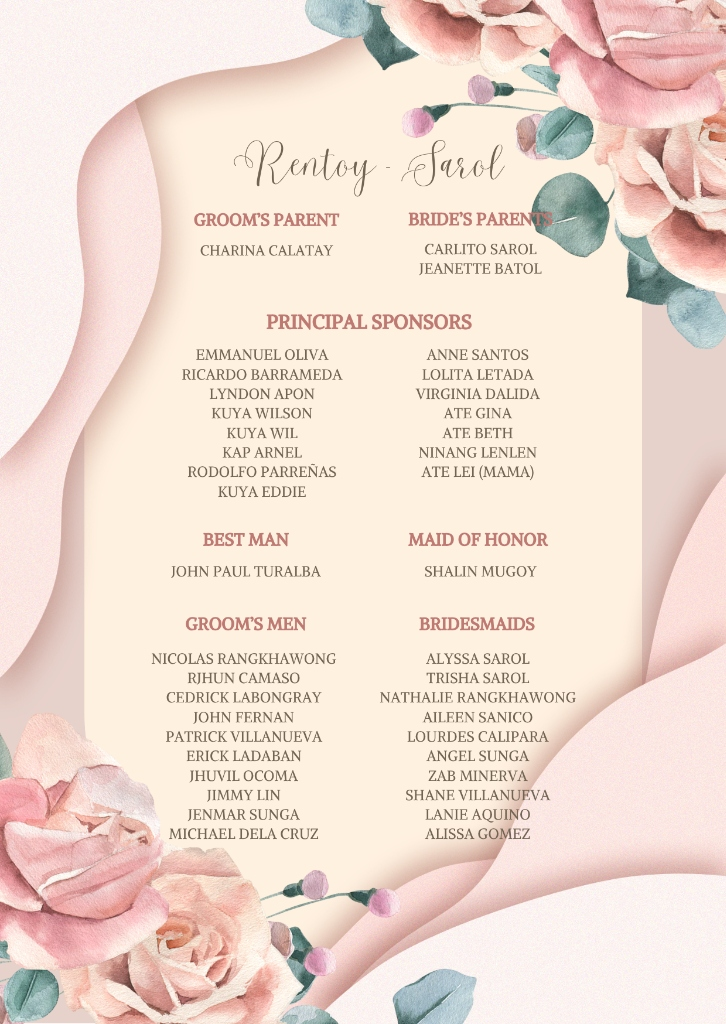
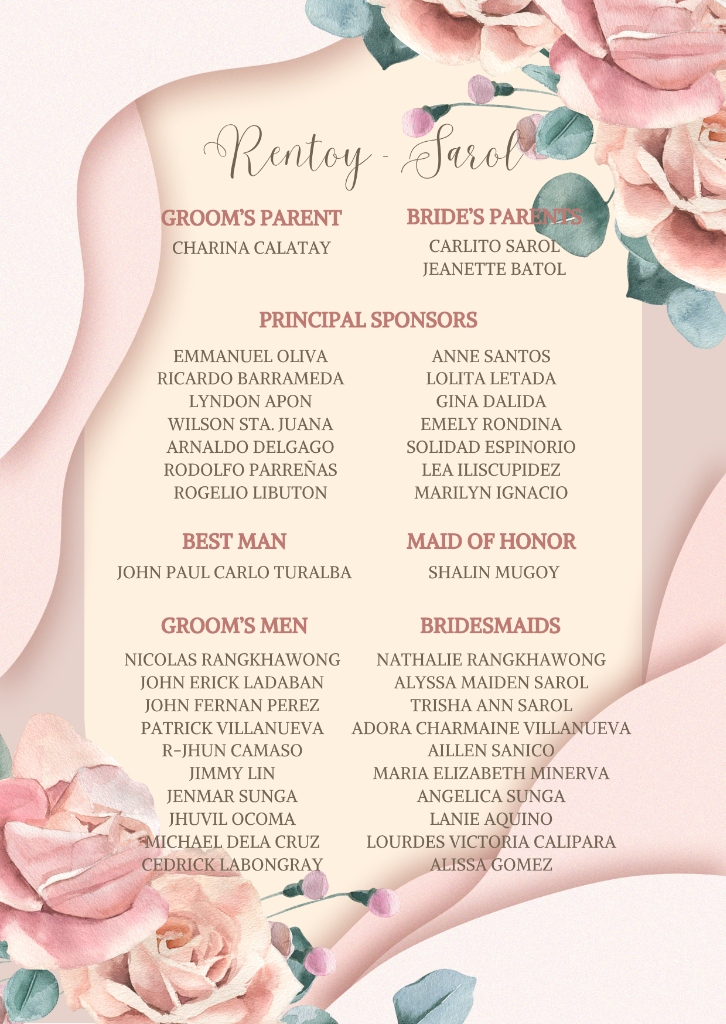
Update entourage roster, sponsors, and gift notes to match finalized invitations

diff --git a/index.html b/index.html
@@ -830,14 +830,13 @@
 								<div class="col-md-6 col-sm-6 text-center">
 									<p class="entourage-pair"><strong>Emmanuel Oliva</strong> &amp; <strong>Anne Santos</strong></p>
 									<p class="entourage-pair"><strong>Ricardo Barrameda</strong> &amp; <strong>Lolita Letada</strong></p>
-									<p class="entourage-pair"><strong>Lyndon Apon</strong> &amp; <strong>Virginia Dalida</strong></p>
-									<p class="entourage-pair"><strong>Kuya Wilson</strong> &amp; <strong>Ate Gina</strong></p>
+									<p class="entourage-pair"><strong>Lyndon Apon</strong> &amp; <strong>Gina Dalida</strong></p>
+									<p class="entourage-pair"><strong>Wilson Sta. Juana</strong> &amp; <strong>Emely Rondina</strong></p>
 								</div>
 								<div class="col-md-6 col-sm-6 text-center">
-									<p class="entourage-pair"><strong>Kuya Wil</strong> &amp; <strong>Ate Beth</strong></p>
-									<p class="entourage-pair"><strong>Kap Arnel</strong> &amp; <strong>Ninang Lenlen</strong></p>
-									<p class="entourage-pair"><strong>Rodolfo Parreñas</strong> &amp; <strong>Ate Lei (Mama)</strong></p>
-									<p class="entourage-pair"><strong>Kuya Eddie</strong></p>
+									<p class="entourage-pair"><strong>Arnaldo Delgago</strong> &amp; <strong>Solidad Espinorio</strong></p>
+									<p class="entourage-pair"><strong>Rodolfo Parreñas</strong> &amp; <strong>Lea Iliscupidez</strong></p>
+									<p class="entourage-pair"><strong>Rogelio Libuton</strong> &amp; <strong>Marilyn Ignacio</strong></p>
 								</div>
 							</div>
 						</div>
@@ -851,15 +850,15 @@
 							<div class="row" style="margin-top:15px;">
 								<div class="col-md-4 col-sm-4 text-center">
 									<p style="font-weight:700; color:#B96D7D; text-transform:uppercase; font-size:13px; letter-spacing:1px; margin-bottom:5px;">To Light Our Path</p>
-									<p class="entourage-pair"><strong>Lyndon Apon</strong><br><strong>Virginia Dalida</strong></p>
+									<p class="entourage-pair"><strong>John Paul Carlo Turalba</strong><br><strong>Shalin Mugoy</strong></p>
 								</div>
 								<div class="col-md-4 col-sm-4 text-center">
 									<p style="font-weight:700; color:#B96D7D; text-transform:uppercase; font-size:13px; letter-spacing:1px; margin-bottom:5px;">To Clothe Us As One</p>
-									<p class="entourage-pair"><strong>Emmanuel Oliva</strong><br><strong>Anne Santos</strong></p>
+									<p class="entourage-pair"><strong>Patrick Villanueva</strong><br><strong>Adora Charmaine Villanueva</strong></p>
 								</div>
 								<div class="col-md-4 col-sm-4 text-center">
 									<p style="font-weight:700; color:#B96D7D; text-transform:uppercase; font-size:13px; letter-spacing:1px; margin-bottom:5px;">To Bind Us Together</p>
-									<p class="entourage-pair"><strong>Ricardo Barrameda</strong><br><strong>Lolita Letada</strong></p>
+									<p class="entourage-pair"><strong>Nicolas Rangkhawong</strong><br><strong>Nathalie Rangkhawong</strong></p>
 								</div>
 							</div>
 						</div>
@@ -874,7 +873,7 @@
 					<div class="col-md-6 col-sm-6">
 						<div class="entourage-group-box text-center">
 							<h4 class="entourage-group-title">Best Man</h4>
-							<p class="entourage-pair" style="font-size:18px;"><strong>John Paul Turalba</strong></p>
+							<p class="entourage-pair" style="font-size:18px;"><strong>John Paul Carlo Turalba</strong></p>
 						</div>
 					</div>
 					<div class="col-md-6 col-sm-6">
@@ -890,29 +889,29 @@
 						<div class="entourage-group-box">
 							<h4 class="entourage-group-title">Groom's Men</h4>
 							<p class="entourage-pair">&bull; Nicolas Rangkhawong</p>
-							<p class="entourage-pair">&bull; Rjhun Camaso</p>
-							<p class="entourage-pair">&bull; Cedrick Labongray</p>
-							<p class="entourage-pair">&bull; John Fernan</p>
+							<p class="entourage-pair">&bull; John Erick Ladaban</p>
+							<p class="entourage-pair">&bull; John Fernan Perez</p>
 							<p class="entourage-pair">&bull; Patrick Villanueva</p>
-							<p class="entourage-pair">&bull; Erick Ladaban</p>
-							<p class="entourage-pair">&bull; Jhuvil Ocoma</p>
+							<p class="entourage-pair">&bull; R-Jhun Camaso</p>
 							<p class="entourage-pair">&bull; Jimmy Lin</p>
 							<p class="entourage-pair">&bull; Jenmar Sunga</p>
+							<p class="entourage-pair">&bull; Jhuvil Ocoma</p>
 							<p class="entourage-pair">&bull; Michael Dela Cruz</p>
+							<p class="entourage-pair">&bull; Cedrick Labongray</p>
 						</div>
 					</div>
 					<div class="col-md-6 col-sm-6">
 						<div class="entourage-group-box">
 							<h4 class="entourage-group-title">Bridesmaids</h4>
-							<p class="entourage-pair">&bull; Alyssa Sarol</p>
-							<p class="entourage-pair">&bull; Trisha Sarol</p>
 							<p class="entourage-pair">&bull; Nathalie Rangkhawong</p>
-							<p class="entourage-pair">&bull; Aileen Sanico</p>
-							<p class="entourage-pair">&bull; Lourdes Calipara</p>
-							<p class="entourage-pair">&bull; Angel Sunga</p>
-							<p class="entourage-pair">&bull; Zab Minerva</p>
-							<p class="entourage-pair">&bull; Shane Villanueva</p>
+							<p class="entourage-pair">&bull; Alyssa Maiden Sarol</p>
+							<p class="entourage-pair">&bull; Trisha Ann Sarol</p>
+							<p class="entourage-pair">&bull; Adora Charmaine Villanueva</p>
+							<p class="entourage-pair">&bull; Aillen Sanico</p>
+							<p class="entourage-pair">&bull; Maria Elizabeth Minerva</p>
+							<p class="entourage-pair">&bull; Angelica Sunga</p>
 							<p class="entourage-pair">&bull; Lanie Aquino</p>
+							<p class="entourage-pair">&bull; Lourdes Victoria Calipara</p>
 							<p class="entourage-pair">&bull; Alissa Gomez</p>
 						</div>
 					</div>
@@ -922,7 +921,7 @@
 					<div class="col-md-6 col-sm-6">
 						<div class="entourage-group-box">
 							<h4 class="entourage-group-title">Bearers</h4>
-							<p class="entourage-pair"><strong>Bible Bearer:</strong> Keira Santos</p>
+							<p class="entourage-pair"><strong>Bible Bearer:</strong> Keira Anne Santos</p>
 							<p class="entourage-pair"><strong>Coin Bearer:</strong> Zyah Jhamilla Sarol</p>
 							<p class="entourage-pair"><strong>Ring Bearer:</strong> Aiden Reign Samonte</p>
 						</div>
@@ -930,9 +929,9 @@
 					<div class="col-md-6 col-sm-6">
 						<div class="entourage-group-box">
 							<h4 class="entourage-group-title">Flower Girls</h4>
-							<p class="entourage-pair">&bull; Grace Garcia / Dalida</p>
-							<p class="entourage-pair">&bull; Aliyah Samonte</p>
-							<p class="entourage-pair">&bull; Kiara Bracamonte</p>
+							<p class="entourage-pair">&bull; Violy Grace Dalida</p>
+							<p class="entourage-pair">&bull; Aliyah Jhanelle Samonte</p>
+							<p class="entourage-pair">&bull; Kiara Jenner Bracamonte</p>
 						</div>
 					</div>
 				</div>
@@ -1099,7 +1098,7 @@
 						<h3 class="gift-notes-title">Important Notes</h3>
 						<ul class="notes-bullet-list">
 							<li><i class="icon-heart2"></i> <div>We would truly love for everyone to witness and attend our church ceremony as we exchange our vows.</div></li>
-							<li><i class="icon-heart2"></i> <div>We would love to celebrate with everyone, but our guest list is strictly limited to those formally invited.</div></li>
+							<li><i class="icon-heart2"></i> <div>We would love to celebrate with everyone, but due to our limited guest list, we kindly ask that only formally invited guests join us on our special day.</div></li>
 							<li><i class="icon-heart2"></i> <div>Reception doors will accommodate guests starting at <strong>3:45 PM</strong> to ensure everyone's comfort and that the venue is pleasantly prepared for your arrival.</div></li>
 							<li><i class="icon-heart2"></i> <div>Guest attendance will be prepared upon arrival. Kindly claim your stubs for the booths at the registration area, where your table number will also be provided.</div></li>
 						</ul>
